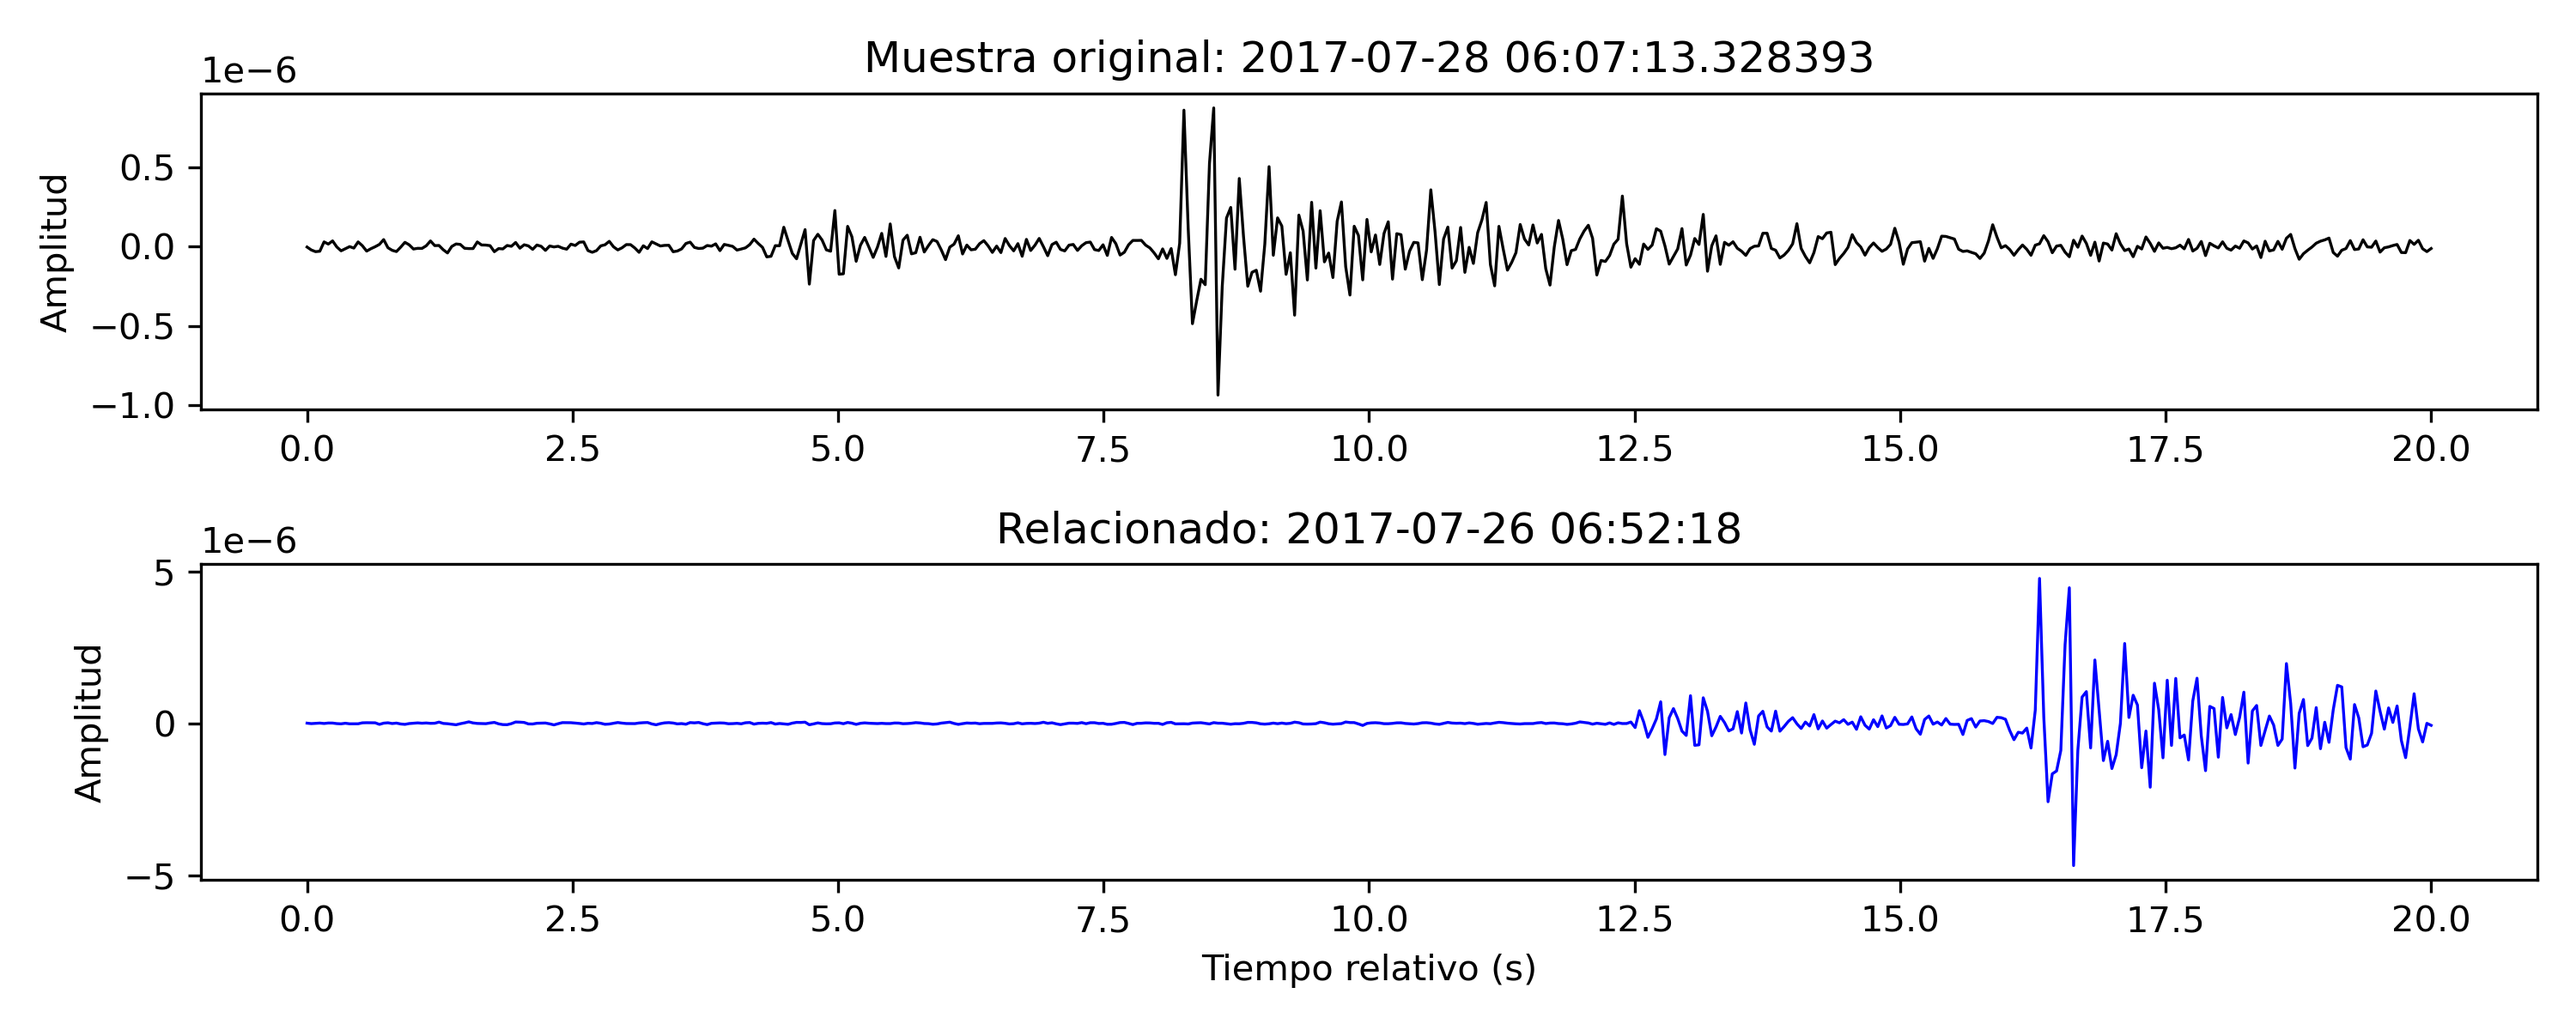
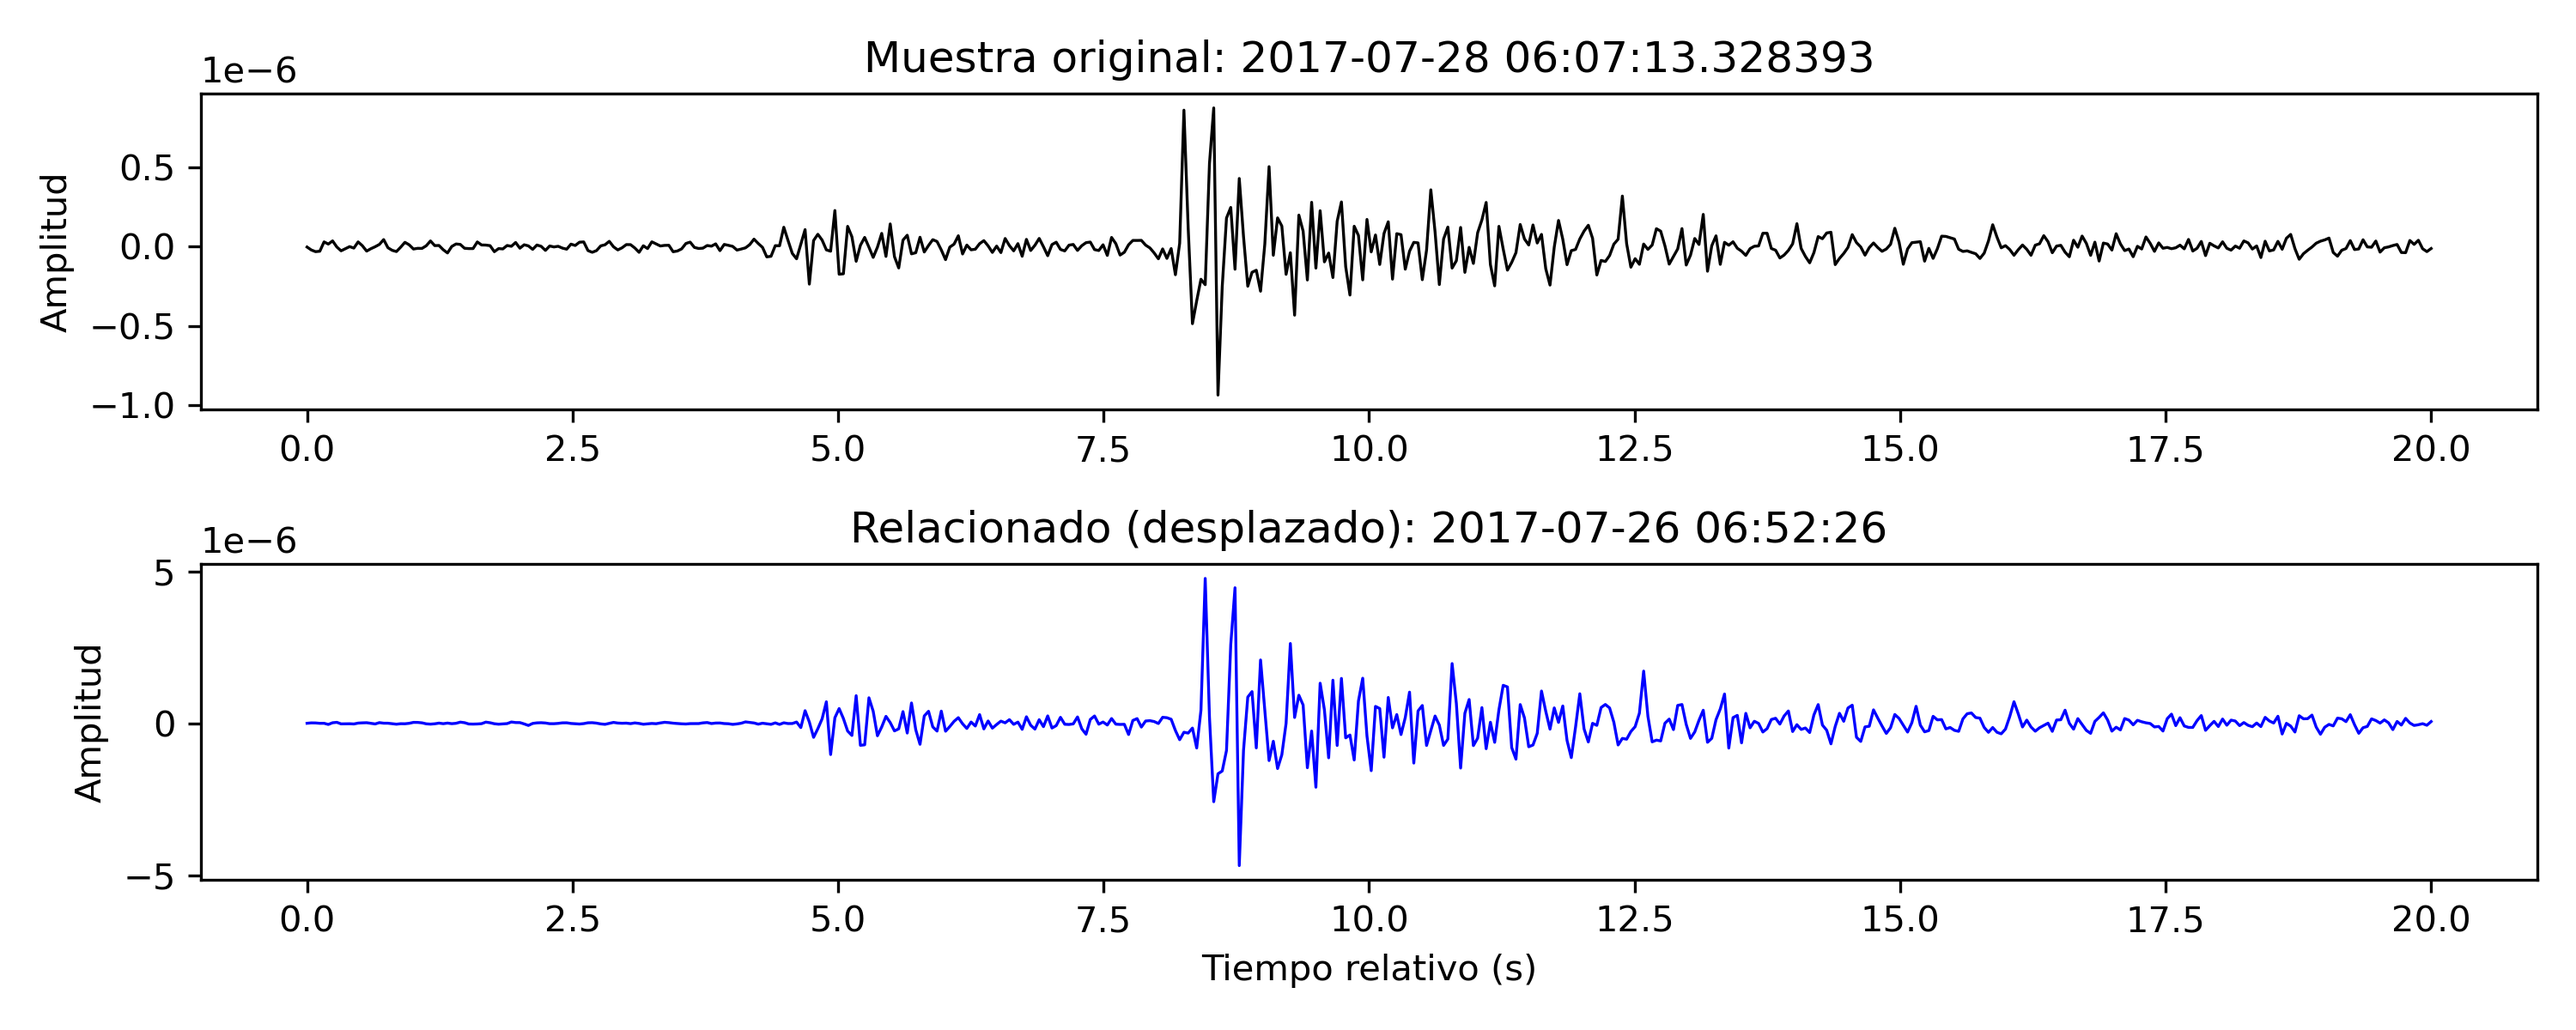
analisis mes

Changed region(s): [[0.31, 0.5858, 0.961, 0.7708], [0.31, 0.4933, 0.744, 0.5242]]

diff --git a/scamp_medio_mes_opuesto/visualizacion_resultados.py b/scamp_medio_mes_opuesto/visualizacion_resultados.py
@@ -1,0 +1,64 @@
+import numpy as np
+import matplotlib.pyplot as plt
+from obspy import read
+from datetime import datetime, timedelta
+
+# Leer los datos originales y los resultados generados
+data = read('../../Datos/2017/Julio/C1.MT12.HH*.2017.197-212.mseed')
+signal = data[0].data
+stats = data[0].stats
+sampling_rate = stats.sampling_rate
+
+# Cargar los archivos generados
+profile = np.load('profile_pearson.npy')
+index = np.load('index_pearson.npy')
+
+# Crear un eje de tiempo en días (considerando la duración real: 16 días)
+time_signal = np.arange(0, len(signal)) / sampling_rate / 3600 / 24  # Señal completa en días
+time_profile = np.arange(0, len(profile)) / sampling_rate / 3600 / 24  # Perfiles e índices en días
+
+# Convertir los índices filtrados a tiempo en días con un umbral de 0.9
+filter_mask = profile > 0.9
+filtered_indices = index[filter_mask]
+filtered_time_profile = time_profile[filter_mask]
+filtered_time_indices = filtered_indices / sampling_rate / 3600 / 24  # Convertir índices a tiempo en días
+
+# Imprimir detecciones
+print(f"Detecciones con perfil > 0.9: {len(filtered_time_profile)}")
+
+# Extraer la fecha inicial y final del archivo
+start_year, start_day_of_year = 2017, 197
+start_date = datetime(start_year, 1, 1) + timedelta(days=start_day_of_year - 1)
+end_date = start_date + timedelta(days=16 - 1)  # 16 días en total
+date_range_str = f"{start_date.strftime('%d/%m/%Y')} - {end_date.strftime('%d/%m/%Y')}"
+
+# Crear el gráfico con tres paneles
+fig, axes = plt.subplots(3, 1, figsize=(10, 10), sharex=True)
+
+# Gráfico 1: Señal sísmica
+axes[0].plot(time_signal, signal, color='black', linewidth=0.8)
+axes[0].set_title("Señal Sísmica", fontsize=12)
+axes[0].set_ylabel("Amplitud")
+
+# Gráfico 2: Perfil de correlación
+axes[1].plot(time_profile, profile, color='blue', linewidth=0.8)
+axes[1].axhline(y=0.9, color='red', linestyle='--', linewidth=1, label="Umbral 0.9")
+axes[1].set_title("Matrix Profile", fontsize=12)
+axes[1].set_ylabel("Correlación")
+axes[1].legend()
+
+# Gráfico 3: Índices filtrados (convertidos a días)
+axes[2].scatter(filtered_time_profile, filtered_time_indices, color='teal', s=10, alpha=0.7)
+axes[2].set_title("Índice de Matrix Profile", fontsize=12)
+axes[2].set_ylabel("Tiempo (días)")
+axes[2].set_ylim(0, 16)  # Ajustar límites del eje Y para 16 días
+axes[2].set_xlabel("Tiempo (días)")
+
+# Ajustes de diseño
+plt.tight_layout()
+plt.subplots_adjust(top=0.92)
+fig.suptitle(f"Análisis Sísmico - Fecha: {date_range_str}", fontsize=14, y=0.98)
+
+# Guardar o mostrar la figura
+plt.savefig("visualizacion_resultados.png", dpi=300, bbox_inches='tight')
+plt.show()

diff --git a/scamp_1mes_0/detecciones_relacionadas.py b/scamp_1mes_0/detecciones_relacionadas.py
@@ -1,0 +1,51 @@
+from obspy import read, UTCDateTime
+import numpy as np
+import matplotlib.pyplot as plt
+
+# Cargar los datos originales
+data = read('../../Datos/2017/Julio/C1.MT12.HH*.2017.182-212.0merge.mseed')
+signal = data[0].data
+stats = data[0].stats
+sampling_rate = stats.sampling_rate
+index = np.load('index_pearson.npy')
+cc_suma = np.load('cc_suma.npy')
+
+# Señales a revisar
+signals = [
+    UTCDateTime(2017, 7, 23, 12, 47, 57),
+    UTCDateTime(2017, 7, 26, 5, 40, 5),
+    UTCDateTime(2017, 7, 26, 6, 52, 26),
+    UTCDateTime(2017, 7, 26, 6, 57, 58),
+    UTCDateTime(2017, 7, 28, 6, 7, 18),
+]
+
+# Graficar 5 segundos antes y 15 segundos después de cada señal en una misma figura
+num_subplots = len(signals)
+fig, axes = plt.subplots(num_subplots, 1, figsize=(10, 5 * num_subplots))
+
+# Iterar sobre las señales y graficar
+for i, signal_time in enumerate(signals):
+    # Obtener el índice correspondiente al tiempo inicial y final
+    start_index = int((signal_time - 5 - stats.starttime) * sampling_rate)
+    end_index = int((signal_time + 15 - stats.starttime) * sampling_rate)
+    
+    # Extraer los datos en ese intervalo
+    signal_segment = signal[start_index:end_index]
+    time_axis = np.linspace(-5, 15, len(signal_segment))
+    
+    # Graficar la señal
+    ax = axes[i] if num_subplots > 1 else axes  # Soporte para un solo subplot
+    ax.plot(time_axis, signal_segment, label=f"Señal {i+1}: {signal_time}", color='blue')
+    ax.axvline(0, color='red', linestyle='--', label="Evento")
+    ax.set_title(f"Señal {i+1}: {signal_time}")
+    ax.set_xlabel("Tiempo relativo (s)")
+    ax.set_ylabel("Amplitud")
+    ax.legend()
+    ax.grid()
+
+# Ajustar el layout y mostrar el gráfico
+plt.tight_layout()
+plt.show()
+
+# Guardar la figura
+fig.savefig('detecciones_relacionadas.png', dpi=300)

diff --git a/scamp_1mes_0/top_detecciones_27.07.py b/scamp_1mes_0/top_detecciones_27.07.py
@@ -66,7 +66,7 @@ segment_samples = int(segment_duration * sampling_rate)
 pre_samples = int(pre_duration * sampling_rate)
 
 # Desplazamientos en segundos para las detecciones relacionadas
-time_offsets = [7.1, 7.55, 7.65, 7.7, -7.5]  # Ejemplo: tiempo de desplazamiento para las primeras detecciones
+time_offsets = [6.215, 7.217, 7.47, 8.026, -6.679]  # Ejemplo: tiempo de desplazamiento para las primeras detecciones
 
 # Crear la figura y los subgráficos
 num_subplots = len(related_times) + 1  # Uno para la muestra original + cada secuencia relacionada
@@ -117,7 +117,7 @@ for i, correlated_time in enumerate(related_times):
     
     # Graficar
     axes[i + 1].plot(relative_time, segment_signal, color='blue', linewidth=0.8)
-    axes[i + 1].set_title(f"Relacionado (desplazado): {correlated_time_utc.datetime.strftime('%Y-%m-%d %H:%M:%S')}")
+    axes[i + 1].set_title(f"Relacionado: {correlated_time_utc.datetime.strftime('%Y-%m-%d %H:%M:%S')}")
     axes[i + 1].set_ylabel("Amplitud")
 
 # Ajustar ejes y etiquetas
@@ -125,7 +125,7 @@ axes[-1].set_xlabel("Tiempo relativo (s)")
 plt.tight_layout()
 
 # Guardar la figura como imagen PNG
-plt.savefig("top_detecciones_27.07_desplazadas.png", format='png', dpi=300)
+plt.savefig("top_detecciones_27.07.png", format='png', dpi=300)
 
 # Mostrar la figura
 plt.show()

diff --git a/scamp_1mes_0/top_detecciones_28.07.py b/scamp_1mes_0/top_detecciones_28.07.py
@@ -66,7 +66,7 @@ segment_samples = int(segment_duration * sampling_rate)
 pre_samples = int(pre_duration * sampling_rate)
 
 # Desplazamiento en segundos para todas las detecciones relacionadas
-time_offset = 7.8  # Corrección de 7.7 segundos
+time_offset = 7.8
 
 # Crear la figura y los subgráficos
 num_subplots = len(related_times) + 1  # Uno para la muestra original + cada secuencia relacionada
@@ -113,7 +113,7 @@ for i, correlated_time in enumerate(related_times):
     
     # Graficar
     axes[i + 1].plot(relative_time, segment_signal, color='blue', linewidth=0.8)
-    axes[i + 1].set_title(f"Relacionado (desplazado): {correlated_time_utc.datetime.strftime('%Y-%m-%d %H:%M:%S')}")
+    axes[i + 1].set_title(f"Relacionado: {correlated_time_utc.datetime.strftime('%Y-%m-%d %H:%M:%S')}")
     axes[i + 1].set_ylabel("Amplitud")
 
 # Ajustar ejes y etiquetas
@@ -121,7 +121,7 @@ axes[-1].set_xlabel("Tiempo relativo (s)")
 plt.tight_layout()
 
 # Guardar la figura como imagen PNG
-plt.savefig("top_detecciones_28.07_desplazadas.png", format='png', dpi=300)
+plt.savefig("top_detecciones_28.07.png", format='png', dpi=300)
 
 # Mostrar la figura
 plt.show()
